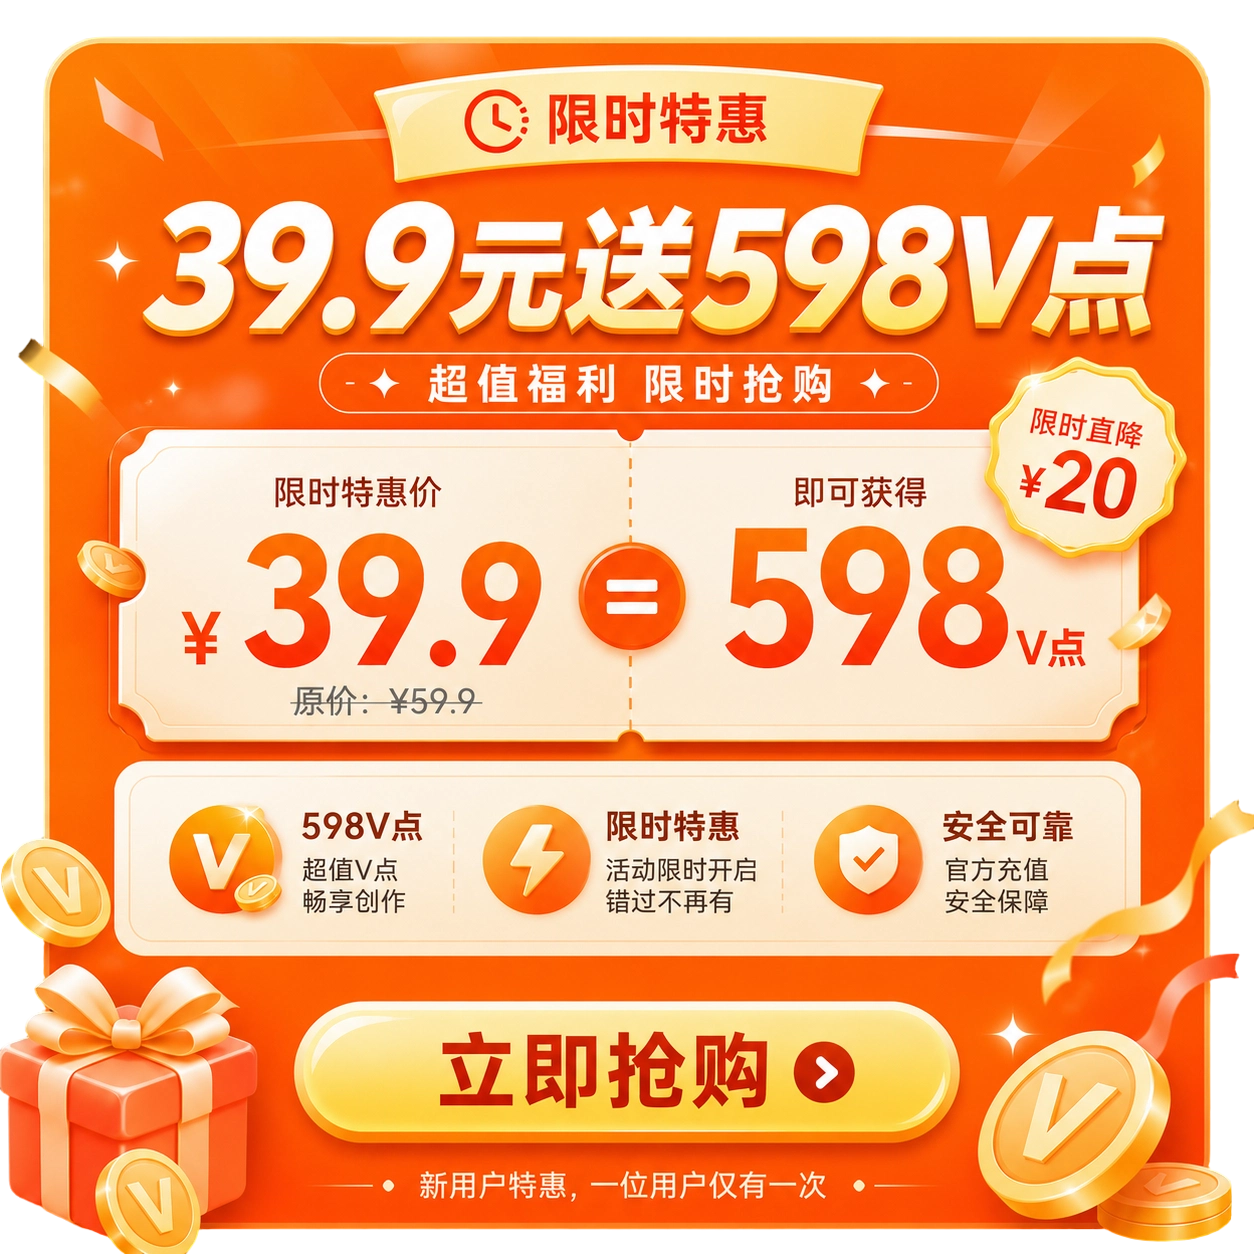
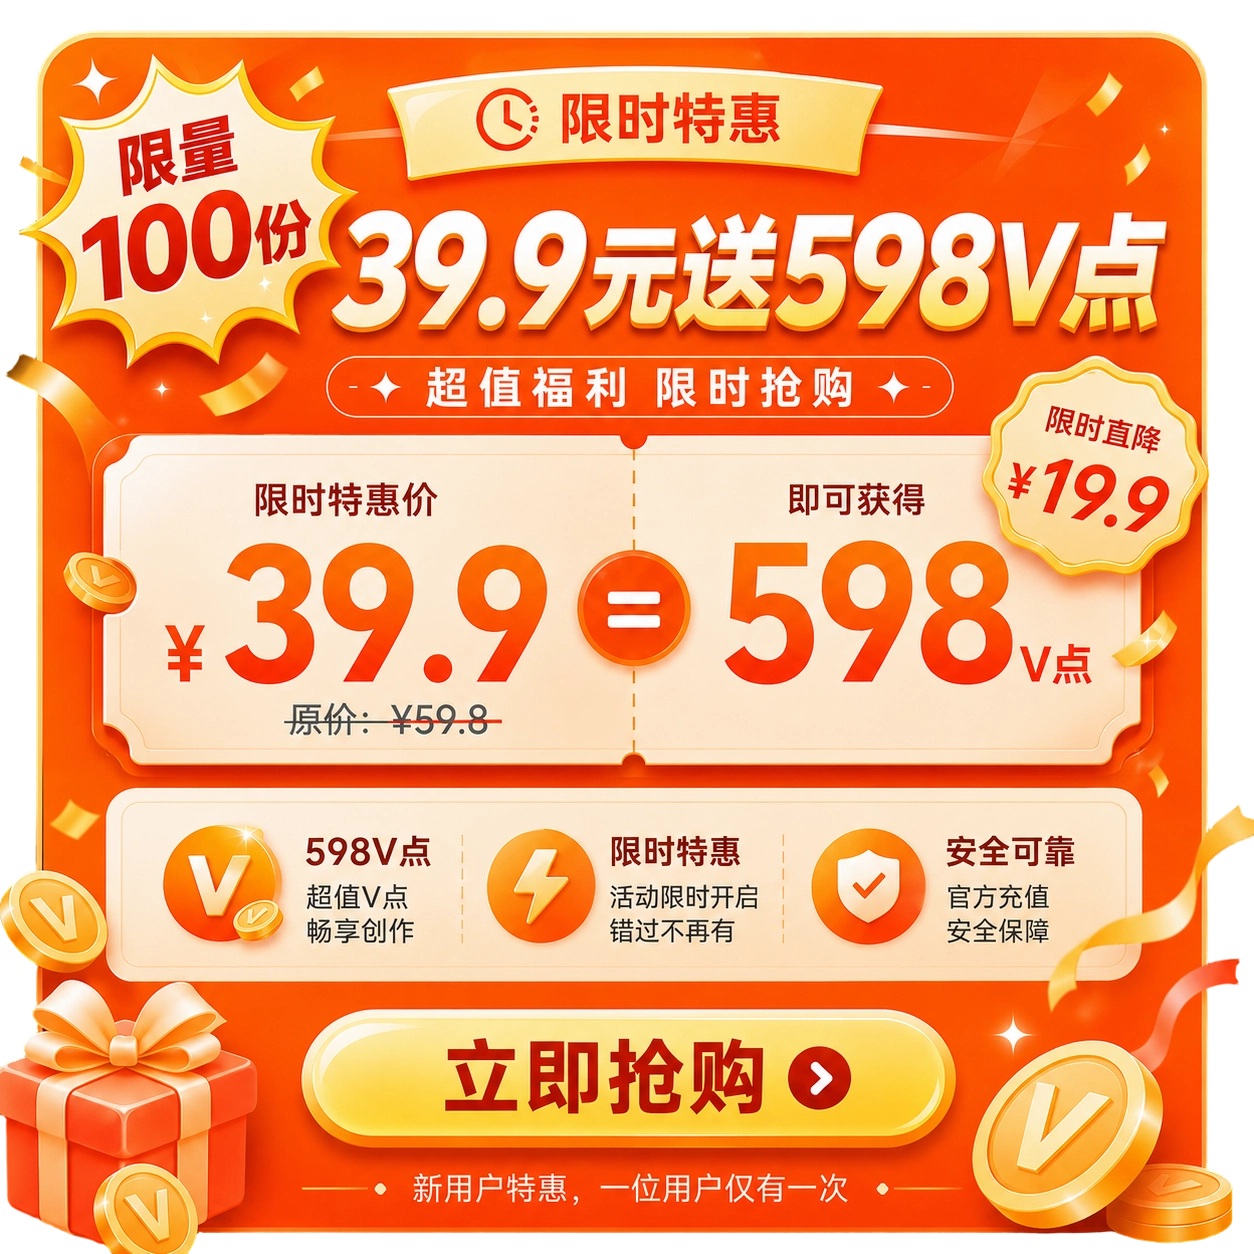
feat(promo): 全局限量 100 份 + Ops 销售面板 + 弹窗体验微调

diff --git a/src/components/promo/usePromoEligibility.ts b/src/components/promo/usePromoEligibility.ts
@@ -19,15 +19,20 @@ const DISMISS_WINDOW_MS = 24 * 60 * 60 * 1000;
 const dismissKey = (campaignId: string, userId: string | number) =>
   `promo_dismissed_${campaignId}_${userId}`;
 
+const sessionNavigatedKey = (campaignId: string, userId: string | number) =>
+  `promo_session_navigated_${campaignId}_${userId}`;
+
 interface UsePromoEligibilityResult {
   campaign: PromoCampaign | null;
   loading: boolean;
   /** banner 是否应该显示（活动活跃 + 用户没买完限购） */
   canShow: boolean;
-  /** 弹窗是否应该弹（叠加 24 小时去抖） */
+  /** 弹窗是否应该弹（叠加 24 小时去抖 + 本会话点过立即抢购则不再弹） */
   shouldShowModal: (userId: string | number) => boolean;
-  /** 用户点 X 关闭后调用：写时间戳 */
+  /** 用户点 X 关闭后调用：写时间戳，触发 24 小时去抖 */
   markDismissed: (userId: string | number) => void;
+  /** 用户点立即抢购跳到计费页时调用：写本会话标记，整个 session 内不再弹 */
+  markPurchaseNavigated: (userId: string | number) => void;
   /** 强制刷新（购买成功后调用，让 banner / 弹窗状态及时更新） */
   refresh: () => Promise<void>;
 }
@@ -83,19 +88,46 @@ export function usePromoEligibility(campaignId: string): UsePromoEligibilityResu
     [campaignId],
   );
 
-  // banner / 弹窗的"是否能展示"统一靠 campaign.canPurchase（后端给的）：
-  // 用户买过 → can_purchase=false → 弹窗 + banner 永久消失。
-  // 这条逻辑在调试模式下也保留——只是去掉 24h 去抖。
-  const canShow = !!campaign && campaign.canPurchase;
+  const isPurchaseNavigatedInSession = useCallback(
+    (userId: string | number) => {
+      if (typeof window === 'undefined') return false;
+      try {
+        return window.sessionStorage.getItem(sessionNavigatedKey(campaignId, userId)) === '1';
+      } catch {
+        return false;
+      }
+    },
+    [campaignId],
+  );
+
+  const markPurchaseNavigated = useCallback(
+    (userId: string | number) => {
+      if (typeof window === 'undefined') return;
+      try {
+        window.sessionStorage.setItem(sessionNavigatedKey(campaignId, userId), '1');
+      } catch {
+        // sessionStorage 不可用（隐私模式）；什么都不做
+      }
+    },
+    [campaignId],
+  );
+
+  // banner 是否应该显示：
+  // - 可购买（`canPurchase=true`）→ 显示正常版（用户没买过 + 全局未售罄 + 活跃）
+  // - 全局售罄（`isSoldOut=true`）→ 仍显示，banner 内部渲染为灰版"已售罄"
+  // - 用户已购买（`canPurchase=false && isSoldOut=false`）→ 不再显示
+  const canShow = !!campaign && (campaign.canPurchase || campaign.isSoldOut);
 
   const shouldShowModal = useCallback(
     (userId: string | number) => {
       if (!campaign || !campaign.canPurchase) return false;
       if (PROMO_DEBUG_ALWAYS_SHOW) return true;
+      // 本会话内已通过弹窗"立即抢购"跳过计费 → 整个 session 内不再弹
+      if (isPurchaseNavigatedInSession(userId)) return false;
       return !isDismissedRecently(userId);
     },
-    [campaign, isDismissedRecently],
+    [campaign, isDismissedRecently, isPurchaseNavigatedInSession],
   );
 
-  return { campaign, loading, canShow, shouldShowModal, markDismissed, refresh };
+  return { campaign, loading, canShow, shouldShowModal, markDismissed, markPurchaseNavigated, refresh };
 }

diff --git a/src/components/promo/PromoBanner.tsx b/src/components/promo/PromoBanner.tsx
@@ -1,8 +1,10 @@
 // 限时活动横幅（通用组件）：
 // - 整张横幅图就是个大按钮
 // - 点击 onClick → 调用方决定打开弹窗 or 直接抢购
+// - 售罄时灰版 + "已售罄"覆盖 + 禁用点击
 // - 任意活动复用
 import React from 'react';
+import { useLanguage } from '../../context/LanguageContext';
 import type { PromoCampaign } from '../../services/promoApi';
 
 interface PromoBannerProps {
@@ -12,21 +14,36 @@ interface PromoBannerProps {
 }
 
 export const PromoBanner: React.FC<PromoBannerProps> = ({ campaign, onClick, className = '' }) => {
+  const { language } = useLanguage();
+  const isZh = language === 'zh';
   if (!campaign.bannerImage) return null;
+  const soldOut = campaign.isSoldOut;
+  const disabled = !campaign.canPurchase;
   return (
     <button
       type="button"
       onClick={onClick}
-      disabled={!campaign.canPurchase}
-      className={`group block w-full overflow-hidden rounded-2xl border border-white/10 bg-black/20 transition hover:border-orange-400/40 hover:shadow-lg disabled:cursor-not-allowed disabled:opacity-60 ${className}`}
+      disabled={disabled}
+      className={`group relative block w-full overflow-hidden rounded-2xl border border-white/10 bg-black/20 transition hover:border-orange-400/40 hover:shadow-lg disabled:cursor-not-allowed ${
+        disabled ? 'opacity-90' : ''
+      } ${className}`}
       aria-label={campaign.name}
     >
       <img
         src={campaign.bannerImage}
         alt={campaign.name}
-        className="block w-full object-cover transition group-hover:scale-[1.01]"
         draggable={false}
+        className={`block w-full object-cover transition group-hover:scale-[1.01] ${
+          soldOut ? 'opacity-50 grayscale' : ''
+        }`}
       />
+      {soldOut && (
+        <div className="absolute inset-0 flex items-center justify-center bg-black/40">
+          <span className="rounded-xl border border-white/30 bg-black/70 px-6 py-2 text-lg font-black tracking-wide text-white shadow-2xl">
+            {isZh ? '已售罄' : 'Sold Out'}
+          </span>
+        </div>
+      )}
     </button>
   );
 };

diff --git a/src/services/promoApi.ts b/src/services/promoApi.ts
@@ -26,6 +26,14 @@ export interface PromoCampaign {
   ctaTextEn: string;
   purchaseLimitPerUser: number;
   purchasedCount: number;
+  /** 全局售卖上限；null = 不限 */
+  totalLimit: number | null;
+  /** 全局已售出（仅算 PAID） */
+  soldCount: number;
+  /** 剩余库存；null = 不限 */
+  remaining: number | null;
+  /** 是否已售罄 */
+  isSoldOut: boolean;
   canPurchase: boolean;
 }
 
@@ -43,10 +51,16 @@ interface RawPromoCampaign {
   cta_text_en?: unknown;
   purchase_limit_per_user?: unknown;
   purchased_count?: unknown;
+  total_limit?: unknown;
+  sold_count?: unknown;
+  remaining?: unknown;
+  is_sold_out?: unknown;
   can_purchase?: unknown;
 }
 
 function normalize(raw: RawPromoCampaign): PromoCampaign {
+  const totalLimit = raw.total_limit == null ? null : Number(raw.total_limit);
+  const remaining = raw.remaining == null ? null : Number(raw.remaining);
   return {
     id: String(raw.id || ''),
     name: String(raw.name || ''),
@@ -61,6 +75,10 @@ function normalize(raw: RawPromoCampaign): PromoCampaign {
     ctaTextEn: String(raw.cta_text_en || 'Grab Now'),
     purchaseLimitPerUser: Number(raw.purchase_limit_per_user || 1),
     purchasedCount: Number(raw.purchased_count || 0),
+    totalLimit: Number.isFinite(totalLimit) ? (totalLimit as number) : null,
+    soldCount: Number(raw.sold_count || 0),
+    remaining: Number.isFinite(remaining) ? (remaining as number) : null,
+    isSoldOut: Boolean(raw.is_sold_out),
     canPurchase: Boolean(raw.can_purchase),
   };
 }

diff --git a/src/pages/Workbench.tsx b/src/pages/Workbench.tsx
@@ -839,6 +839,8 @@ const Workbench = () => {
               }}
               onPurchase={() => {
                 setIsPromoModalOpen(false);
+                // 标记"本会话已通过弹窗跳到计费"——之后切到 billing 时弹窗不会再次弹
+                if (user) promoEligibility.markPurchaseNavigated(user.id);
                 // 跳到计费页 + 用 hash 通知 BillingView 触发抢购流程（避免 Workbench 直接持有充值逻辑）
                 setActiveView('billing');
                 if (typeof window !== 'undefined') {

diff --git a/src/components/promo/PromoModal.tsx b/src/components/promo/PromoModal.tsx
@@ -31,7 +31,7 @@ export const PromoModal: React.FC<PromoModalProps> = ({ isOpen, campaign, onClos
 
   return (
     <div
-      className="fixed inset-0 z-[140] flex items-center justify-center bg-black/70 backdrop-blur-sm p-6"
+      className="fixed inset-0 z-[140] flex items-center justify-center bg-black/35 p-6"
       onClick={onClose}
       role="dialog"
       aria-label={campaign.name}
